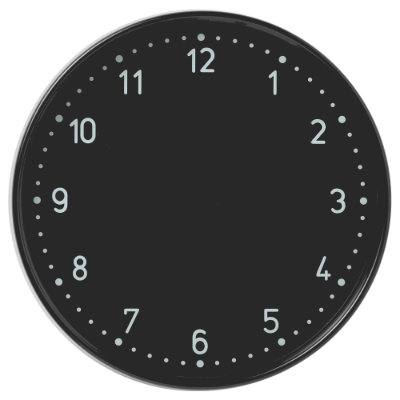
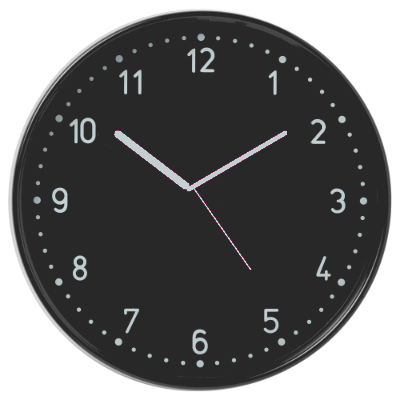
added themes

diff --git a/clock.js b/clock.js
@@ -21,8 +21,40 @@ setInterval(currentTime, 1000);
 
 currentTime();
 
-function changeClock(clockName){
-    document.querySelector('.clock').style.backgroundImage = "url('./clocks/"+clockName+"')";
+function addActive(clock){
+    const selectedClock = document.querySelector("#"+clock);
+    selectedClock.classList.add('active-theme');
 }
 
-changeClock('clock1.png');
+function removeActive(){
+    const selectedClock = document.querySelector(".active-theme");
+    if(selectedClock != null){
+        selectedClock.classList.remove('active-theme');
+    }
+}
+
+function changeClock(clockName){
+    removeActive();
+    const clocks = {
+        'clock1':{
+            'imageUrl': "./clocks/clock1.png",
+            'handColor': "#ebe8e8"
+        },
+        'clock2':{
+            'imageUrl': "./clocks/clock2.png",
+            'handColor': "#222122"
+        },
+        'clock3':{
+            'imageUrl': "./clocks/clock3.png",
+            'handColor': "#ea70b8"
+        },
+    };
+    document.querySelector('.clock').style.backgroundImage = "url('"+clocks[clockName].imageUrl+"')";
+    document.querySelector('.hand.hour').style.borderColor = clocks[clockName].handColor;
+    document.querySelector('.hand.min').style.borderColor = clocks[clockName].handColor;
+    document.querySelector('.hand.sec').style.borderColor = clocks[clockName].handColor;
+    document.querySelector('.place').style.color = clocks[clockName].handColor;
+    addActive(clockName);
+}
+
+changeClock('clock1');

diff --git a/clock.html b/clock.html
@@ -11,15 +11,16 @@
                 <div class="hand sec"></div>
             </div>
         </div>
+        <div class="place">India</div>
 		<div class="clock-theme-container">
 			<div class="clock-theme-item">
-				<image class="theme-clock active-theme" src="./clocks/_clock1.png" onclick="changeClock('clock1.png')"/>
+				<image id="clock1" class="theme-clock" src="./clocks/_clock1.png" onclick="changeClock('clock1')"/>
 			</div>
 			<div class="clock-theme-item">
-				<image class="theme-clock" src="./clocks/_clock2.png"/ onclick="changeClock('clock2.png')">
+				<image id="clock2" class="theme-clock" src="./clocks/_clock2.png"/ onclick="changeClock('clock2')">
 			</div>
 			<div class="clock-theme-item">
-				<image class="theme-clock" src="./clocks/_clock3.png"/ onclick="changeClock('clock3.png')">
+				<image id="clock3" class="theme-clock" src="./clocks/_clock3.png"/ onclick="changeClock('clock3')">
 			</div>
 		</div>
     </body>

diff --git a/clock.css b/clock.css
@@ -26,15 +26,15 @@ body{
 }
 
 .hand.hour{
-    border-bottom: 5px solid rgb(235, 232, 232);
+    border-bottom: 5px solid #ebe8e8;
 }
 
 .hand.min{
-    border-bottom: 3px solid rgb(235, 232, 232);
+    border-bottom: 3px solid #ebe8e8;
 }
 
 .hand.sec{
-    border-bottom: 1px solid rgb(235, 232, 232);
+    border-bottom: 1px solid #ebe8e8;
 }
 
 .clock-theme-container{
@@ -65,4 +65,13 @@ body{
 
 .active-theme{
 	box-shadow: 0 0 1rem #ffc600;
+}
+
+.place{
+    width: 100%;
+    height: 50px;
+    text-align: center;
+    font-size: 30px;
+    font-weight: 700;
+    letter-spacing: 7px;
 }
